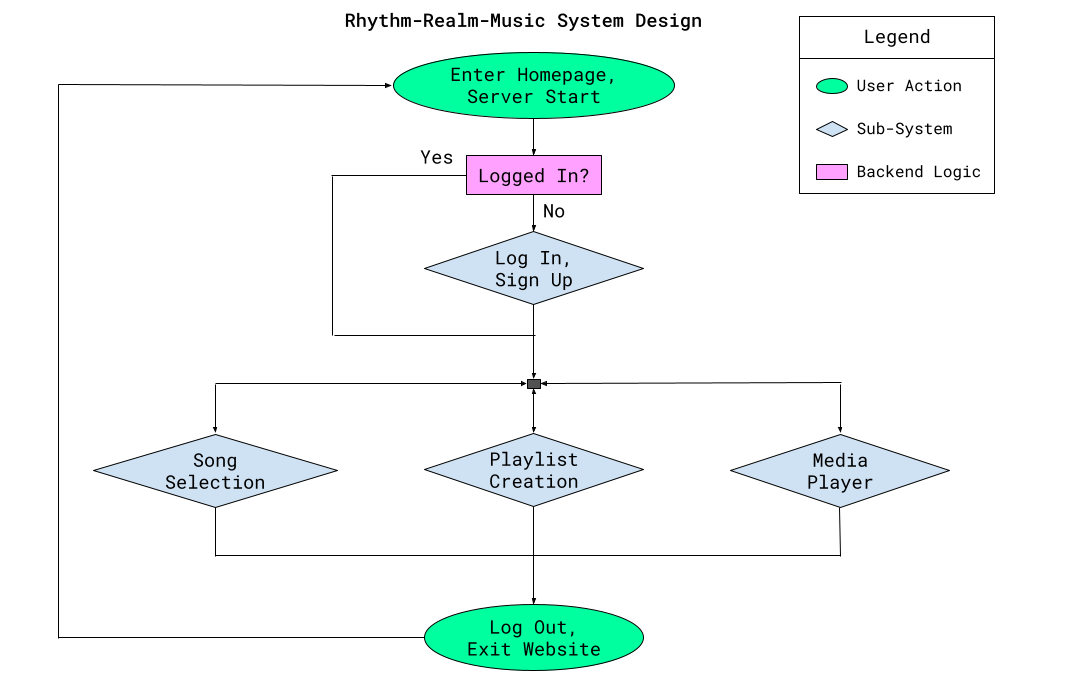
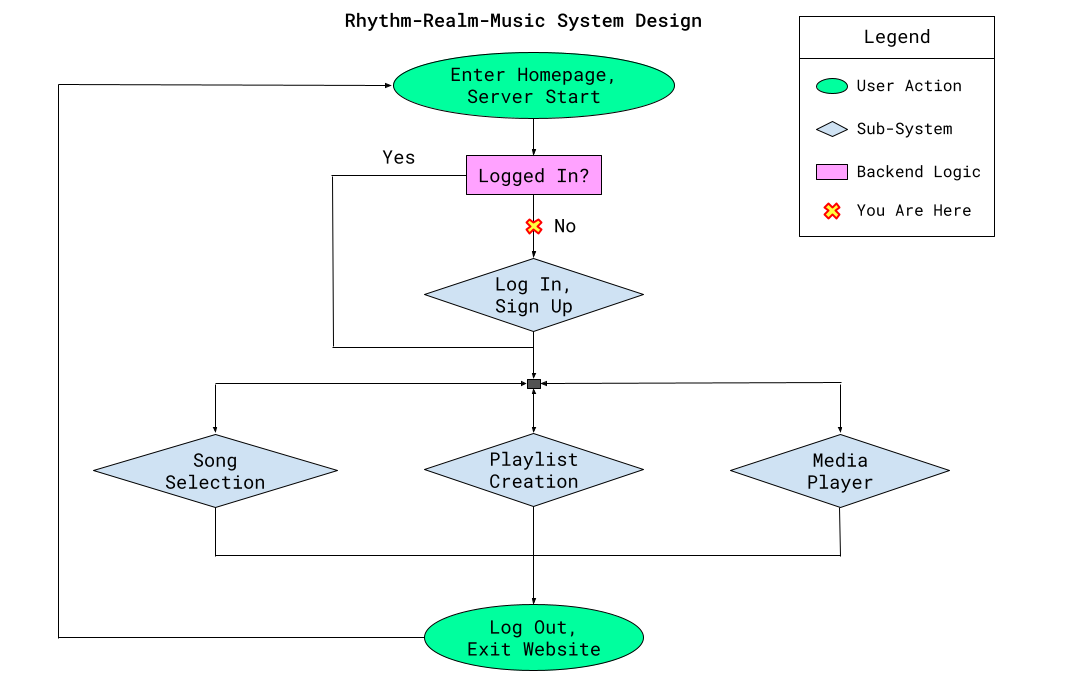
system diagram change

diff --git a/js/home.js b/js/home.js
@@ -42,7 +42,8 @@ window.onload = function(){
      */
     document.getElementById("loading-display").className = "loading_display";
     if(localStorage.getItem("username") != null){
-        
+        document.getElementById("diagram-box").innerHTML = ""; 
+        document.getElementById("diagram-box").className = "diagram off";
         document.getElementById("image_for_mp").innerHTML = `<img src="../img/no_music_holder.jpeg" class = "mp_image">`;
         document.getElementById("myInput").classList.toggle("off");
     document.getElementById("mySelect").classList.toggle("off");
@@ -258,6 +259,7 @@ window.onload = function(){
                     })
                 })
         document.querySelector(".media_player").style.backgroundColor = "#423f3fcb";
+        
     }else{
         fetch(`/api/tester`,{
             method:"GET",
@@ -287,16 +289,17 @@ window.onload = function(){
                 document.getElementById("login").addEventListener(("click"),()=>{
                     window.location.href="/api/login";
                 })
-    }
-    document.getElementById("loading-display").className = "loading_display off";
-    let testRef = document.getElementById("test_test_test");
+                let testRef = document.getElementById("diagram-box");
     testRef.innerHTML = "";
-    testRef.className = "test";
+    testRef.className = "diagram";
     testRef.innerHTML = `<img src="../img/system_diagram.png" id="system-diagram">`;
     testRef.style.backgroundColor= "#00000000";
     document.getElementById("system-diagram").addEventListener('click',()=>{
         window.location.href="../api/zoom_picture/system_diagram.png";
     })
+    }
+    document.getElementById("loading-display").className = "loading_display off";
+    
 }
 
 let iconMutex =0;

diff --git a/html/index.html b/html/index.html
@@ -107,6 +107,10 @@
         </div>
     </div>
 
+    <div class = "diagram off" id="diagram-box">
+        
+    </div>
+
     <div class = "test off" id="test_test_test">
         <div class = "add_btn">
             <i class="fa-solid fa-plus" style="color: #e4e4e4;" id="plus" title="Add Songs"></i>
@@ -128,6 +132,7 @@
             </div>
         </div>
     </div>
+
     <div class = media_player>
         <div class = "image" id="image_for_mp">
 

diff --git a/css/home.css b/css/home.css
@@ -85,6 +85,24 @@ body{
     height:400px;
   }
 
+  .diagram{
+    display: flex;
+    flex-direction: column;
+    position:absolute;
+    border-radius: 15px;
+    justify-content: center;
+    align-self: center;
+    background-color: #423f3fcb;
+    margin-top: 135px;
+    width:50%;
+    padding: 10px;
+    height:400px;
+  }
+
+  .diagram.off{
+    display:none;
+  }
+
   .container {
     display: flex;
     flex-direction: column;
